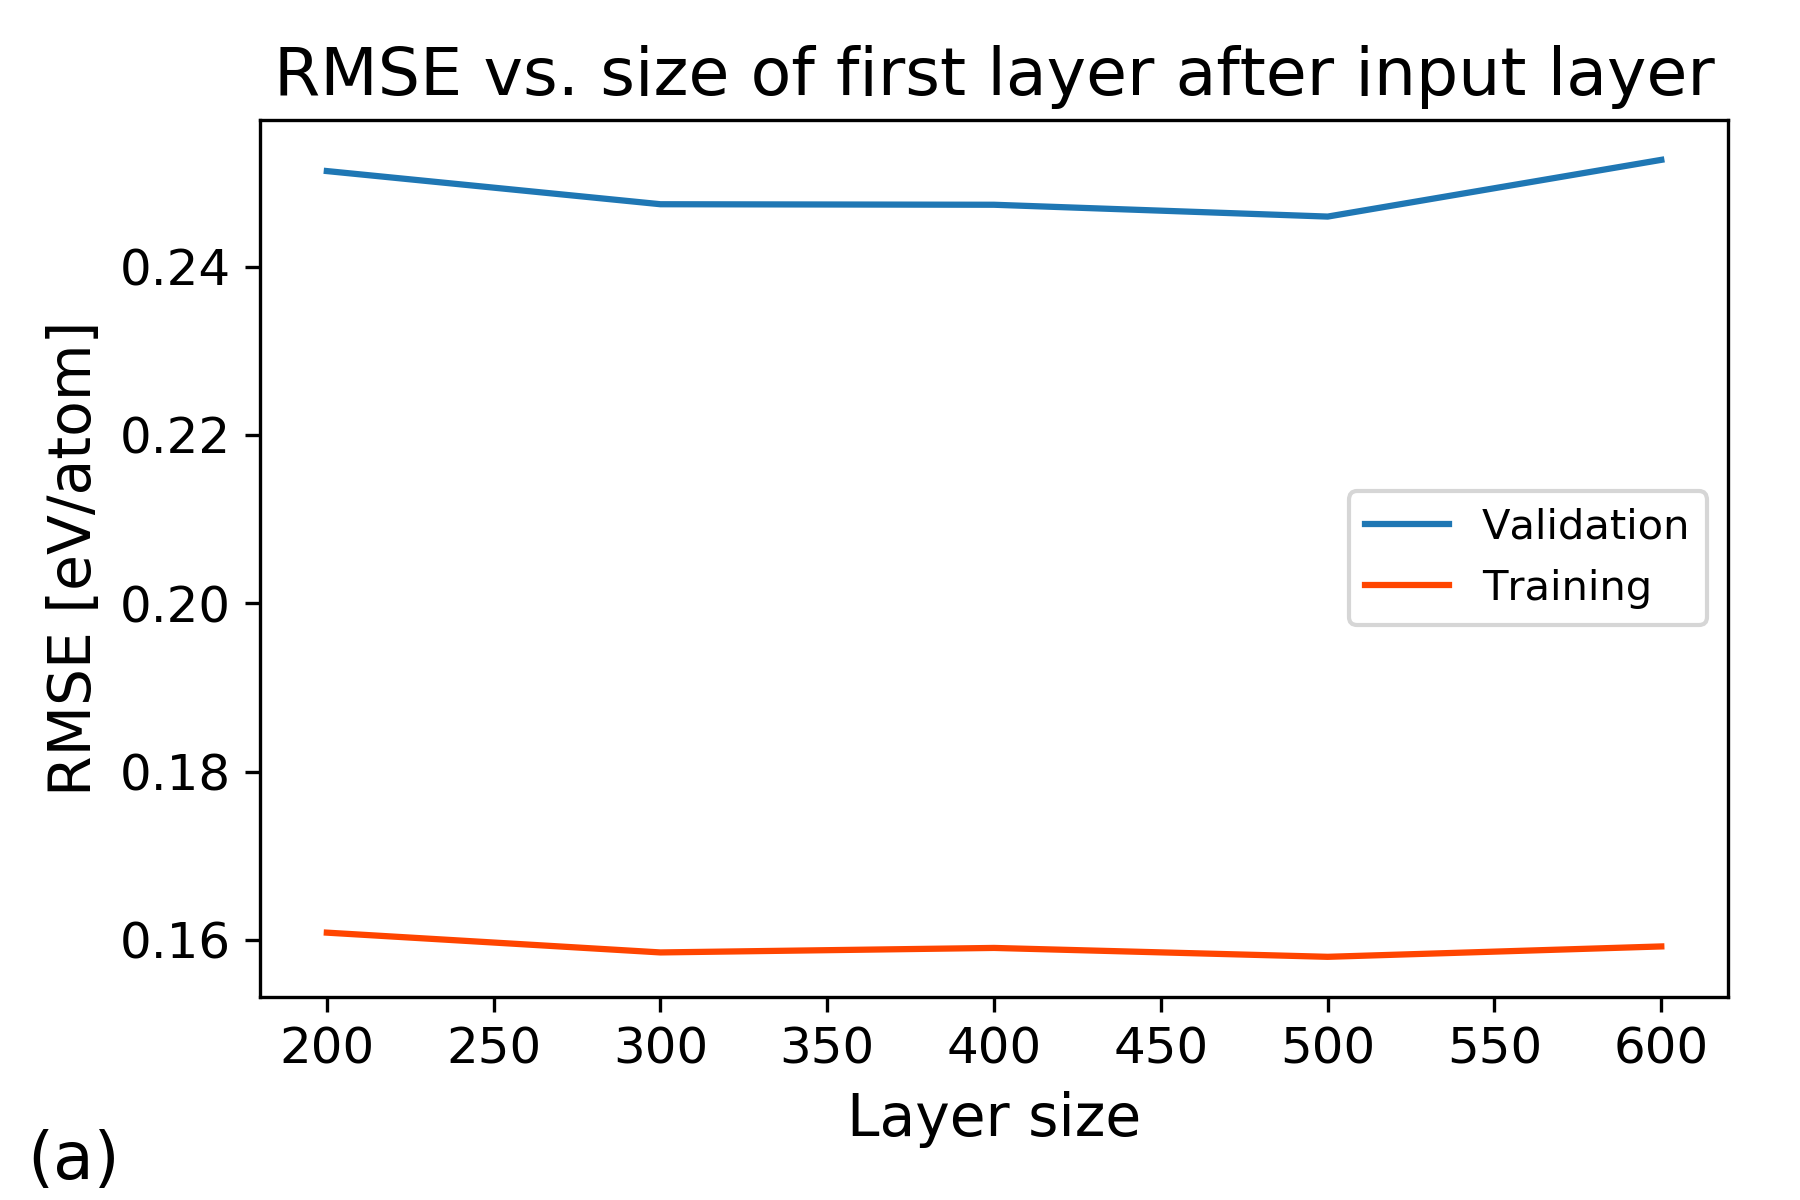
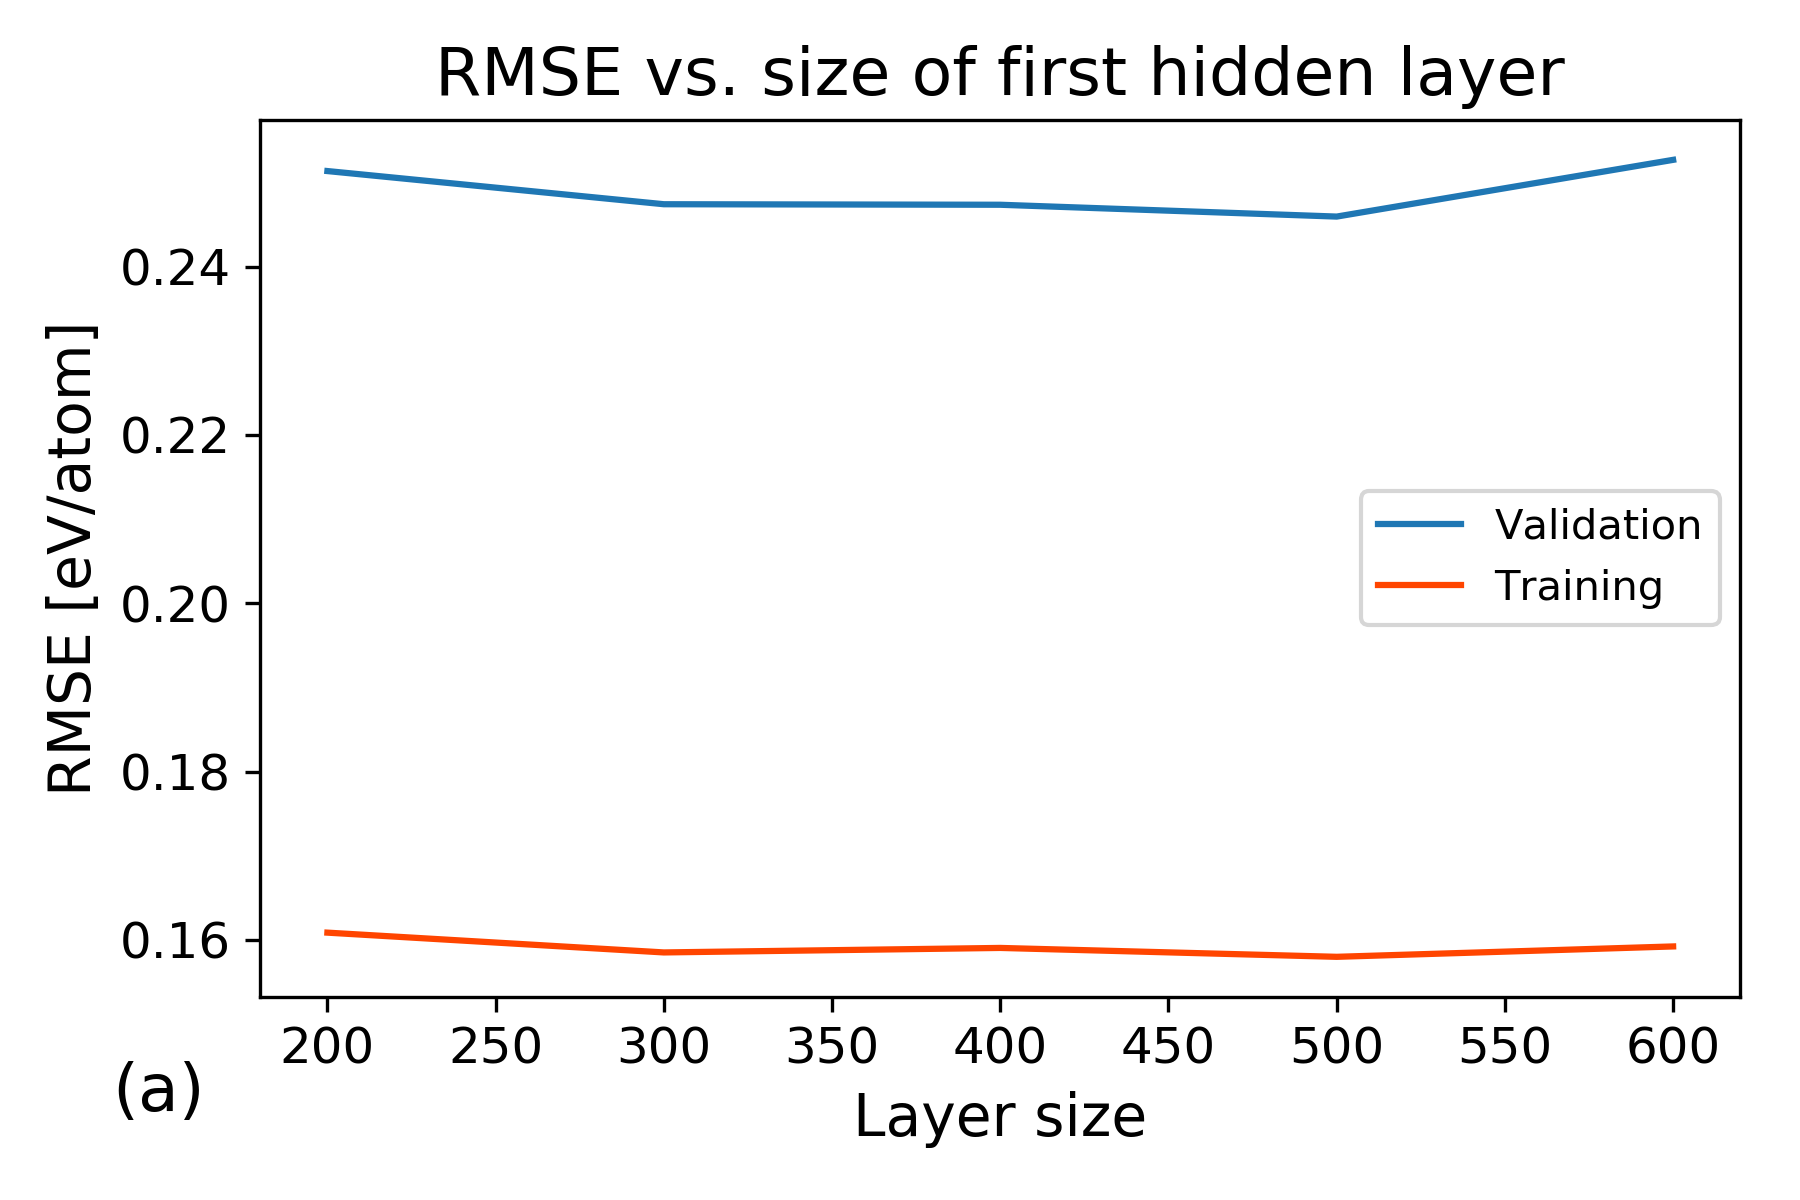
x

diff --git a/NN/all_plots.py b/NN/all_plots.py
@@ -23,7 +23,7 @@ folders.sort()
 data=[]
 for folder in folders:
     files = [file[7:] for file in os.listdir(folder) if file!='.DS_Store']
-    
+
     m_folder=folder[:16]
     m_func=folder[folder.find('_')+1:]
 
@@ -35,7 +35,7 @@ for folder in folders:
         elif 'sigmoid' in file:
             acti='sigmoid'
         nhidden=int(file[-1])
-    
+
         data.append({'N':N,'drop':drop,'acti':acti,'nhidden':nhidden,'m_folder':m_folder,'m_func':m_func,'file':'hist_N_'+file})
 
 histories=[]
@@ -72,7 +72,7 @@ for di in data:
     if di['acti']=='relu':
         relu.append(di['rmse_val'])
     if di['acti']=='sigmoid':
-        sigmoid.append(di['rmse_val'])    
+        sigmoid.append(di['rmse_val'])
     if di['m_folder']=='03-01-2019 11.04':
         fol03_01.append(di['rmse_val'])
     if di['m_folder']=='04-01-2019 21.56':
@@ -103,30 +103,32 @@ grpprdgrpprd2x2=np.mean(grpprdgrpprd2x2)
 
 mean_list={'acti':[relu,sigmoid], 'm_folder':[fol03_01,fol04_01,fol11_10,fol09_01,fol09_01ny], 'm_func':[anumxanum,grpprdgrpprd2x2,grpprdxgrpprd]}
 sub_letters={'N':'(a)','drop':'(c)','nhidden':'(b)','m_folder':'(a)','m_func':'(b)','acti':''}
-titles={'N':'RMSE vs. size of first layer after input layer','drop':'RMSE vs. dropout regularization','acti':'Activation function','nhidden':'RMSE vs. number of hidden layers','m_folder':'Prdf parameters','m_func':'Feature matrix shape'}
+titles={'N':'RMSE vs. size of first hidden layer','drop':'RMSE vs. dropout regularization','acti':'Activation function','nhidden':'RMSE vs. number of hidden layers','m_folder':'Prdf parameters','m_func':'Feature matrix shape'}
 xlabels={'N':'Layer size','drop':'Dropout value','nhidden':'Number of hidden layers'}
 for param in ['N','drop','nhidden']:
     new_list = param_list.copy()
     new_list.pop(param_list.index(param))
-    
+
     plot_list=[]
     for di in data:
         if [di[p] for p in new_list]==[minimum_di[p] for p in new_list]:
             plot_list.append(di)
-        
-        
-    
+
+
+
     list_param=[di[param] for di in plot_list]
     list_rmse=[di['rmse_val'] for di in plot_list]
     list_train=[di['rmse'] for di in plot_list]
-    
+
     l1,l2=zip(*sorted(zip(list_param, list_rmse)))
     l1=list(l1)
     l2=list(l2)
-    
+
     l1,l2_train=zip(*sorted(zip(list_param, list_train)))
     l1=list(l1)
     l2_train=list(l2_train)
+    
+    
     
     if param=='nhidden':
         l1.pop(0)
@@ -134,23 +136,26 @@ for param in ['N','drop','nhidden']:
         l2_train.pop(0)
         ax = plt.figure().gca()
         ax.xaxis.set_major_locator(MaxNLocator(integer=True))
-        
-    
+    else:
+        ax=plt.axes()
+
+
     plt.plot(l1,l2)
     plt.plot(l1,l2_train, color='orangered')
     plt.legend(['Validation','Training'])
 
-    
+
     plt.title(titles[param],fontsize=16)
     plt.ylabel('RMSE [eV/atom]',fontsize=14)
     plt.xlabel(xlabels[param],fontsize=14)
     plt.xticks(fontsize=12)
     plt.yticks(fontsize=12)
     plt.tight_layout()
+
     plt.text(-0.1,-0.13,sub_letters[param],size=16, transform=ax.transAxes)
     plt.savefig(f'../Plots/{param}.png',dpi=300)
     plt.show()
-    
+
 
 values={'acti':['sigmoid','relu'],'m_folder':['04-01-2019 21.56','11-10-2018 11.36','09-01-2019 12.57','03-01-2019 11.04','09-01-2019 16.03'],'m_func':['shape_group_period_x_group_period','shape_atomic_number','shape_group_period_2x2']}
 
@@ -158,7 +163,7 @@ tick_names={'sigmoid':'sigmoid','relu':'relu','03-01-2019 11.04':'m=8, dr=0.25, 
 for param in ['acti','m_folder','m_func']:
     l1=values[param]
     l2=[]
-    
+
     for val in l1:
         sublist=[di['rmse_val'] for di in data if di[param]==val]
         try:
@@ -166,8 +171,8 @@ for param in ['acti','m_folder','m_func']:
         except:
             best=0
         l2.append(best)
-    
-    
+
+
     m_list=[]
     for val in l1:
         m=[]
@@ -175,20 +180,20 @@ for param in ['acti','m_folder','m_func']:
             if di[param]==val:
                 m.append(di['rmse_val'])
         m_list.append(np.mean(m))
-    
-    
+
+
     ticks=[tick_names[name] for name in l1]
     plt.bar(ticks,m_list,color='orangered')
     plt.bar(ticks,l2)
     plt.legend(['Mean','Best'])
-    
+
     if param == 'm_folder':
         plt.xticks(rotation='30', ha='right')
     if param== 'acti':
         print(f"{l1[0]}={l2[0]:.4}, {l1[1]}={l2[1]:.4}")
     plt.title(titles[param],fontsize=16)
     plt.ylabel('RMSE [eV/atom]',fontsize=14)
-    
+
     plt.xticks(fontsize=12)
     plt.yticks(fontsize=12)
     plt.tight_layout()
@@ -200,26 +205,26 @@ for param in ['acti','m_folder','m_func']:
 #for param in ['nhidden']:
 #    new_list = param_list.copy()
 #    new_list.pop(param_list.index(param))
-#    
+#
 #    x0=[]
 #    for di in data:
 #        if di['nhidden']==0:
 #            x0.append(di)
-#    
+#
 #    x1=[]
 #    for di in data:
 #        for x in x0:
 #            if [di[p] for p in new_list]==[x[p] for p in new_list] and di['nhidden']==1:
 #                x1.append(di)
-#        
 #
-#    
+#
+#
 #    ordered_x1=[]
 #    for i in range(len(x0)):
 #        for j in range(len(x1)):
 #            if [x0[i][p] for p in new_list]==[x1[j][p] for p in new_list]:
 #                ordered_x1.append(x1[j])
-#                
+#
 #    diff=[]
 #    for i in range(len(x0)):
 #        diff.append(x0[i]['rmse_val']-ordered_x1[i]['rmse_val'])
